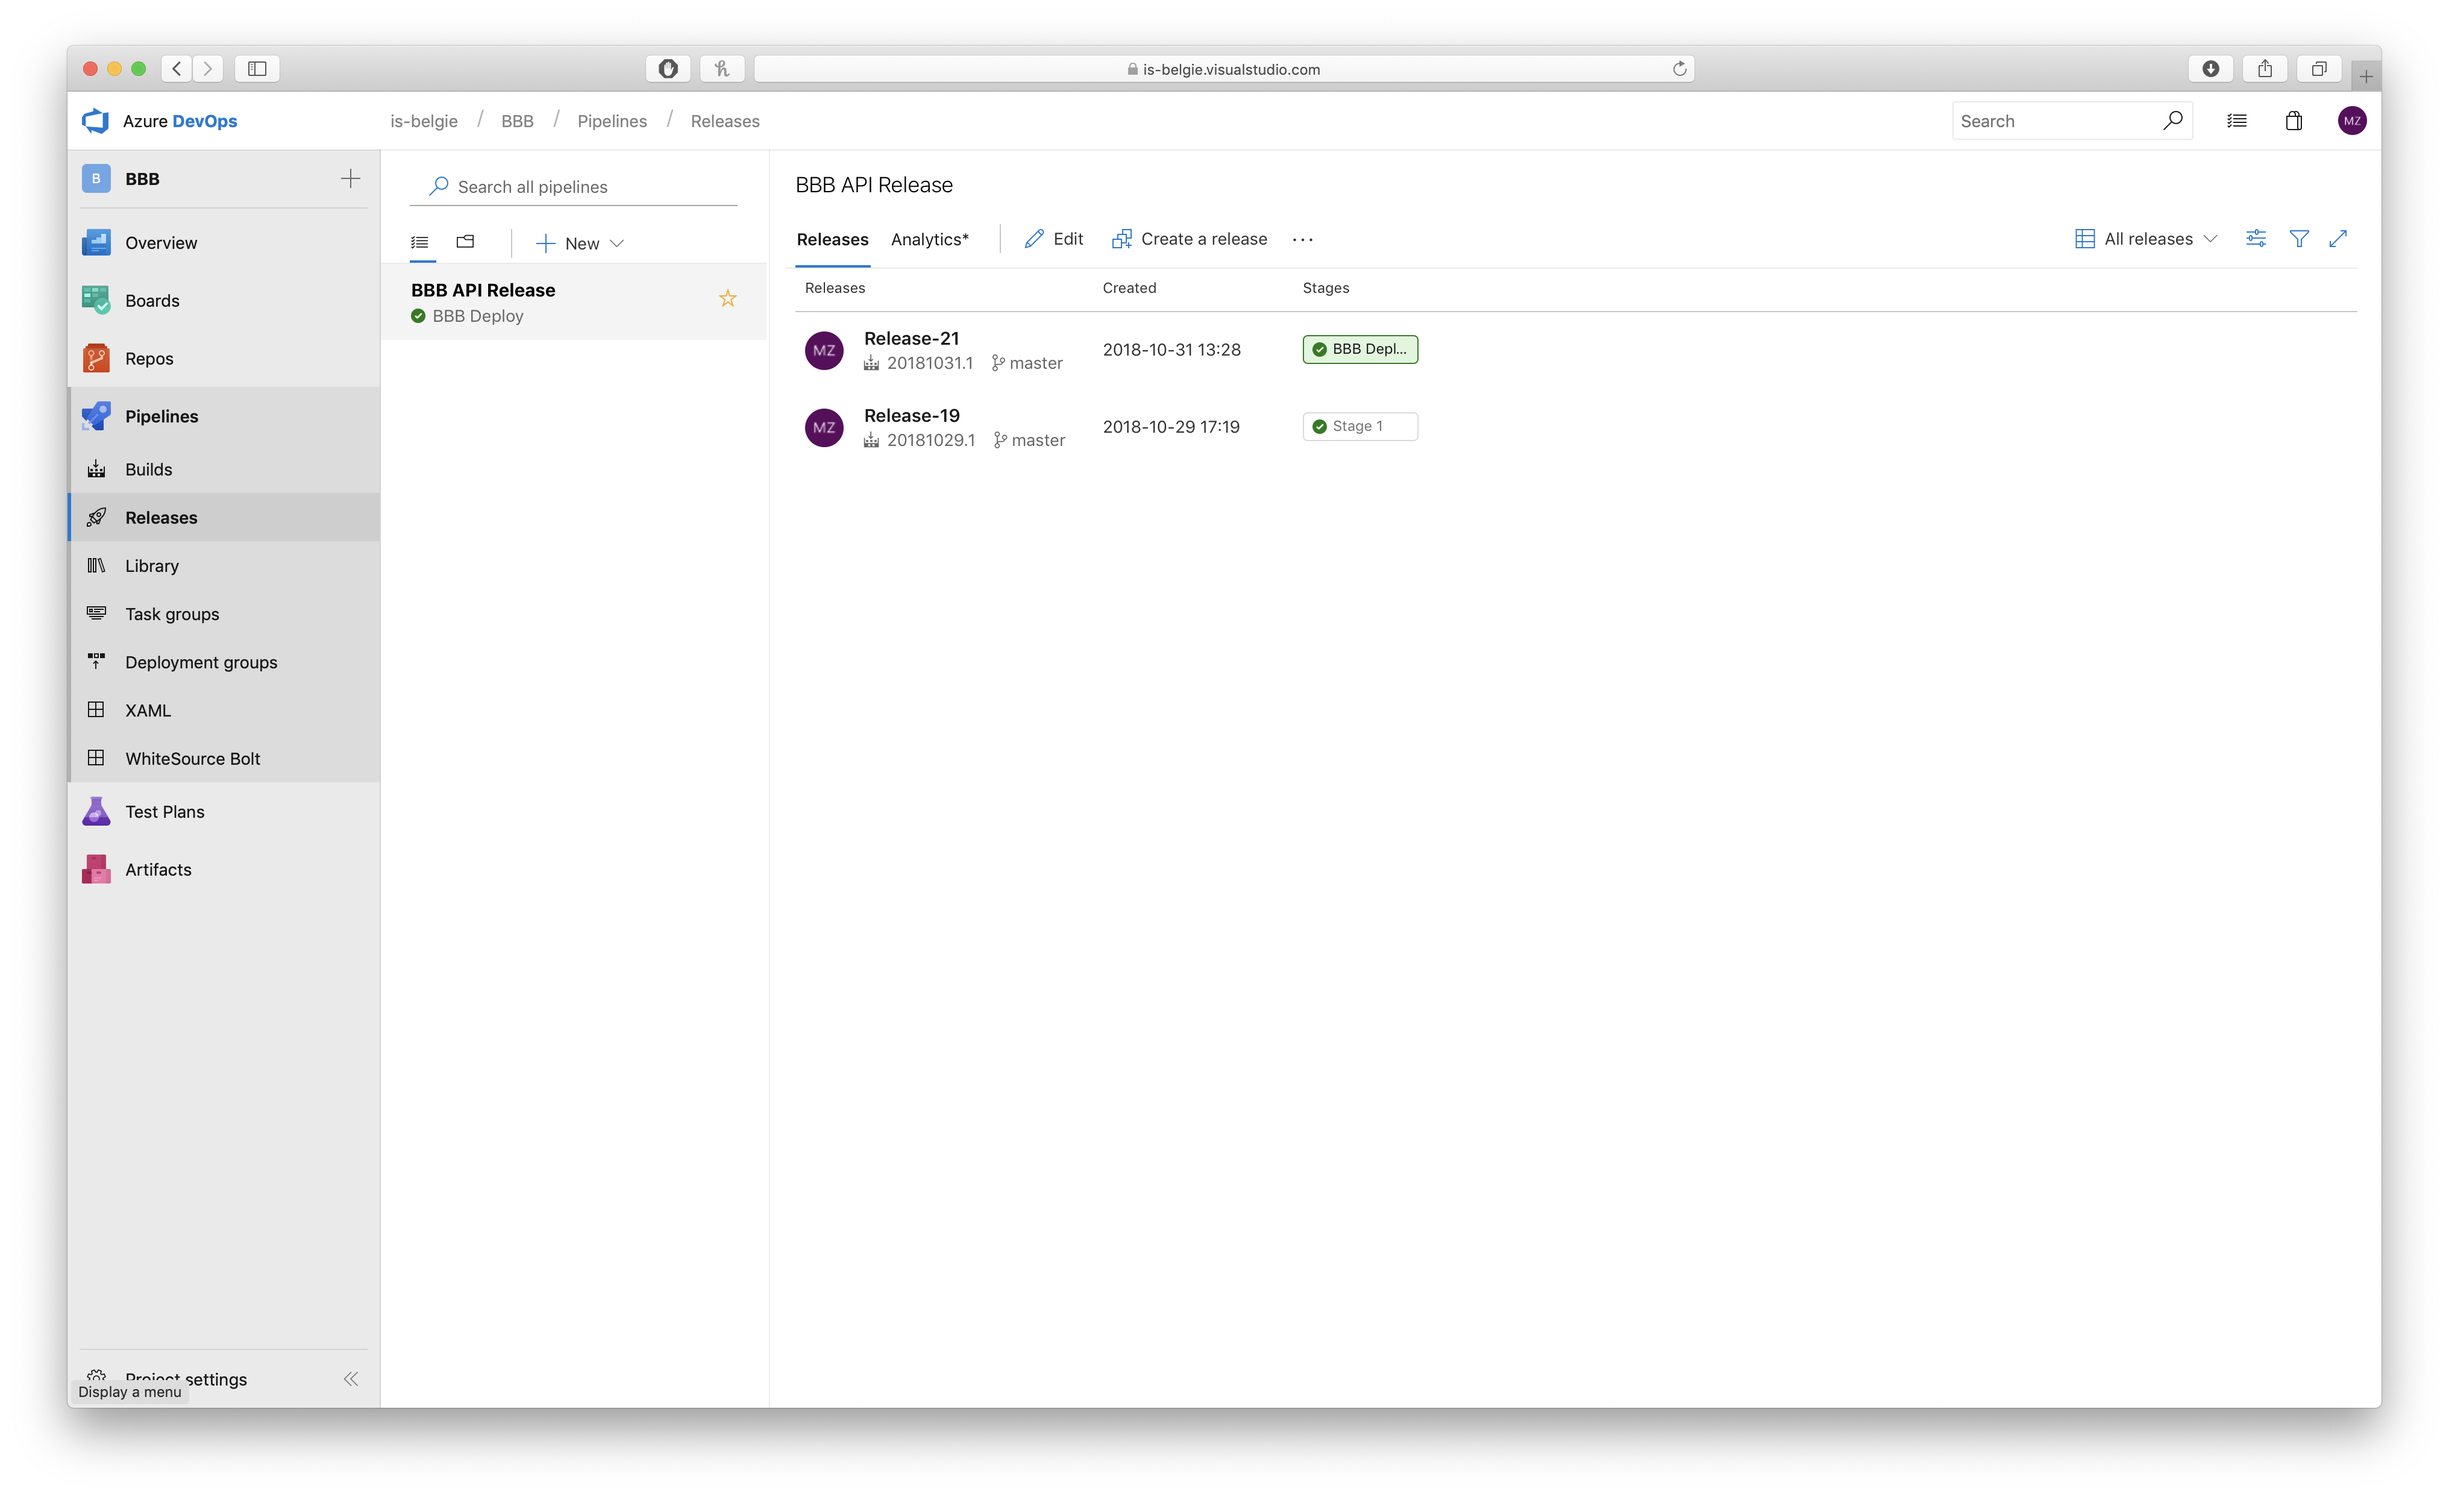
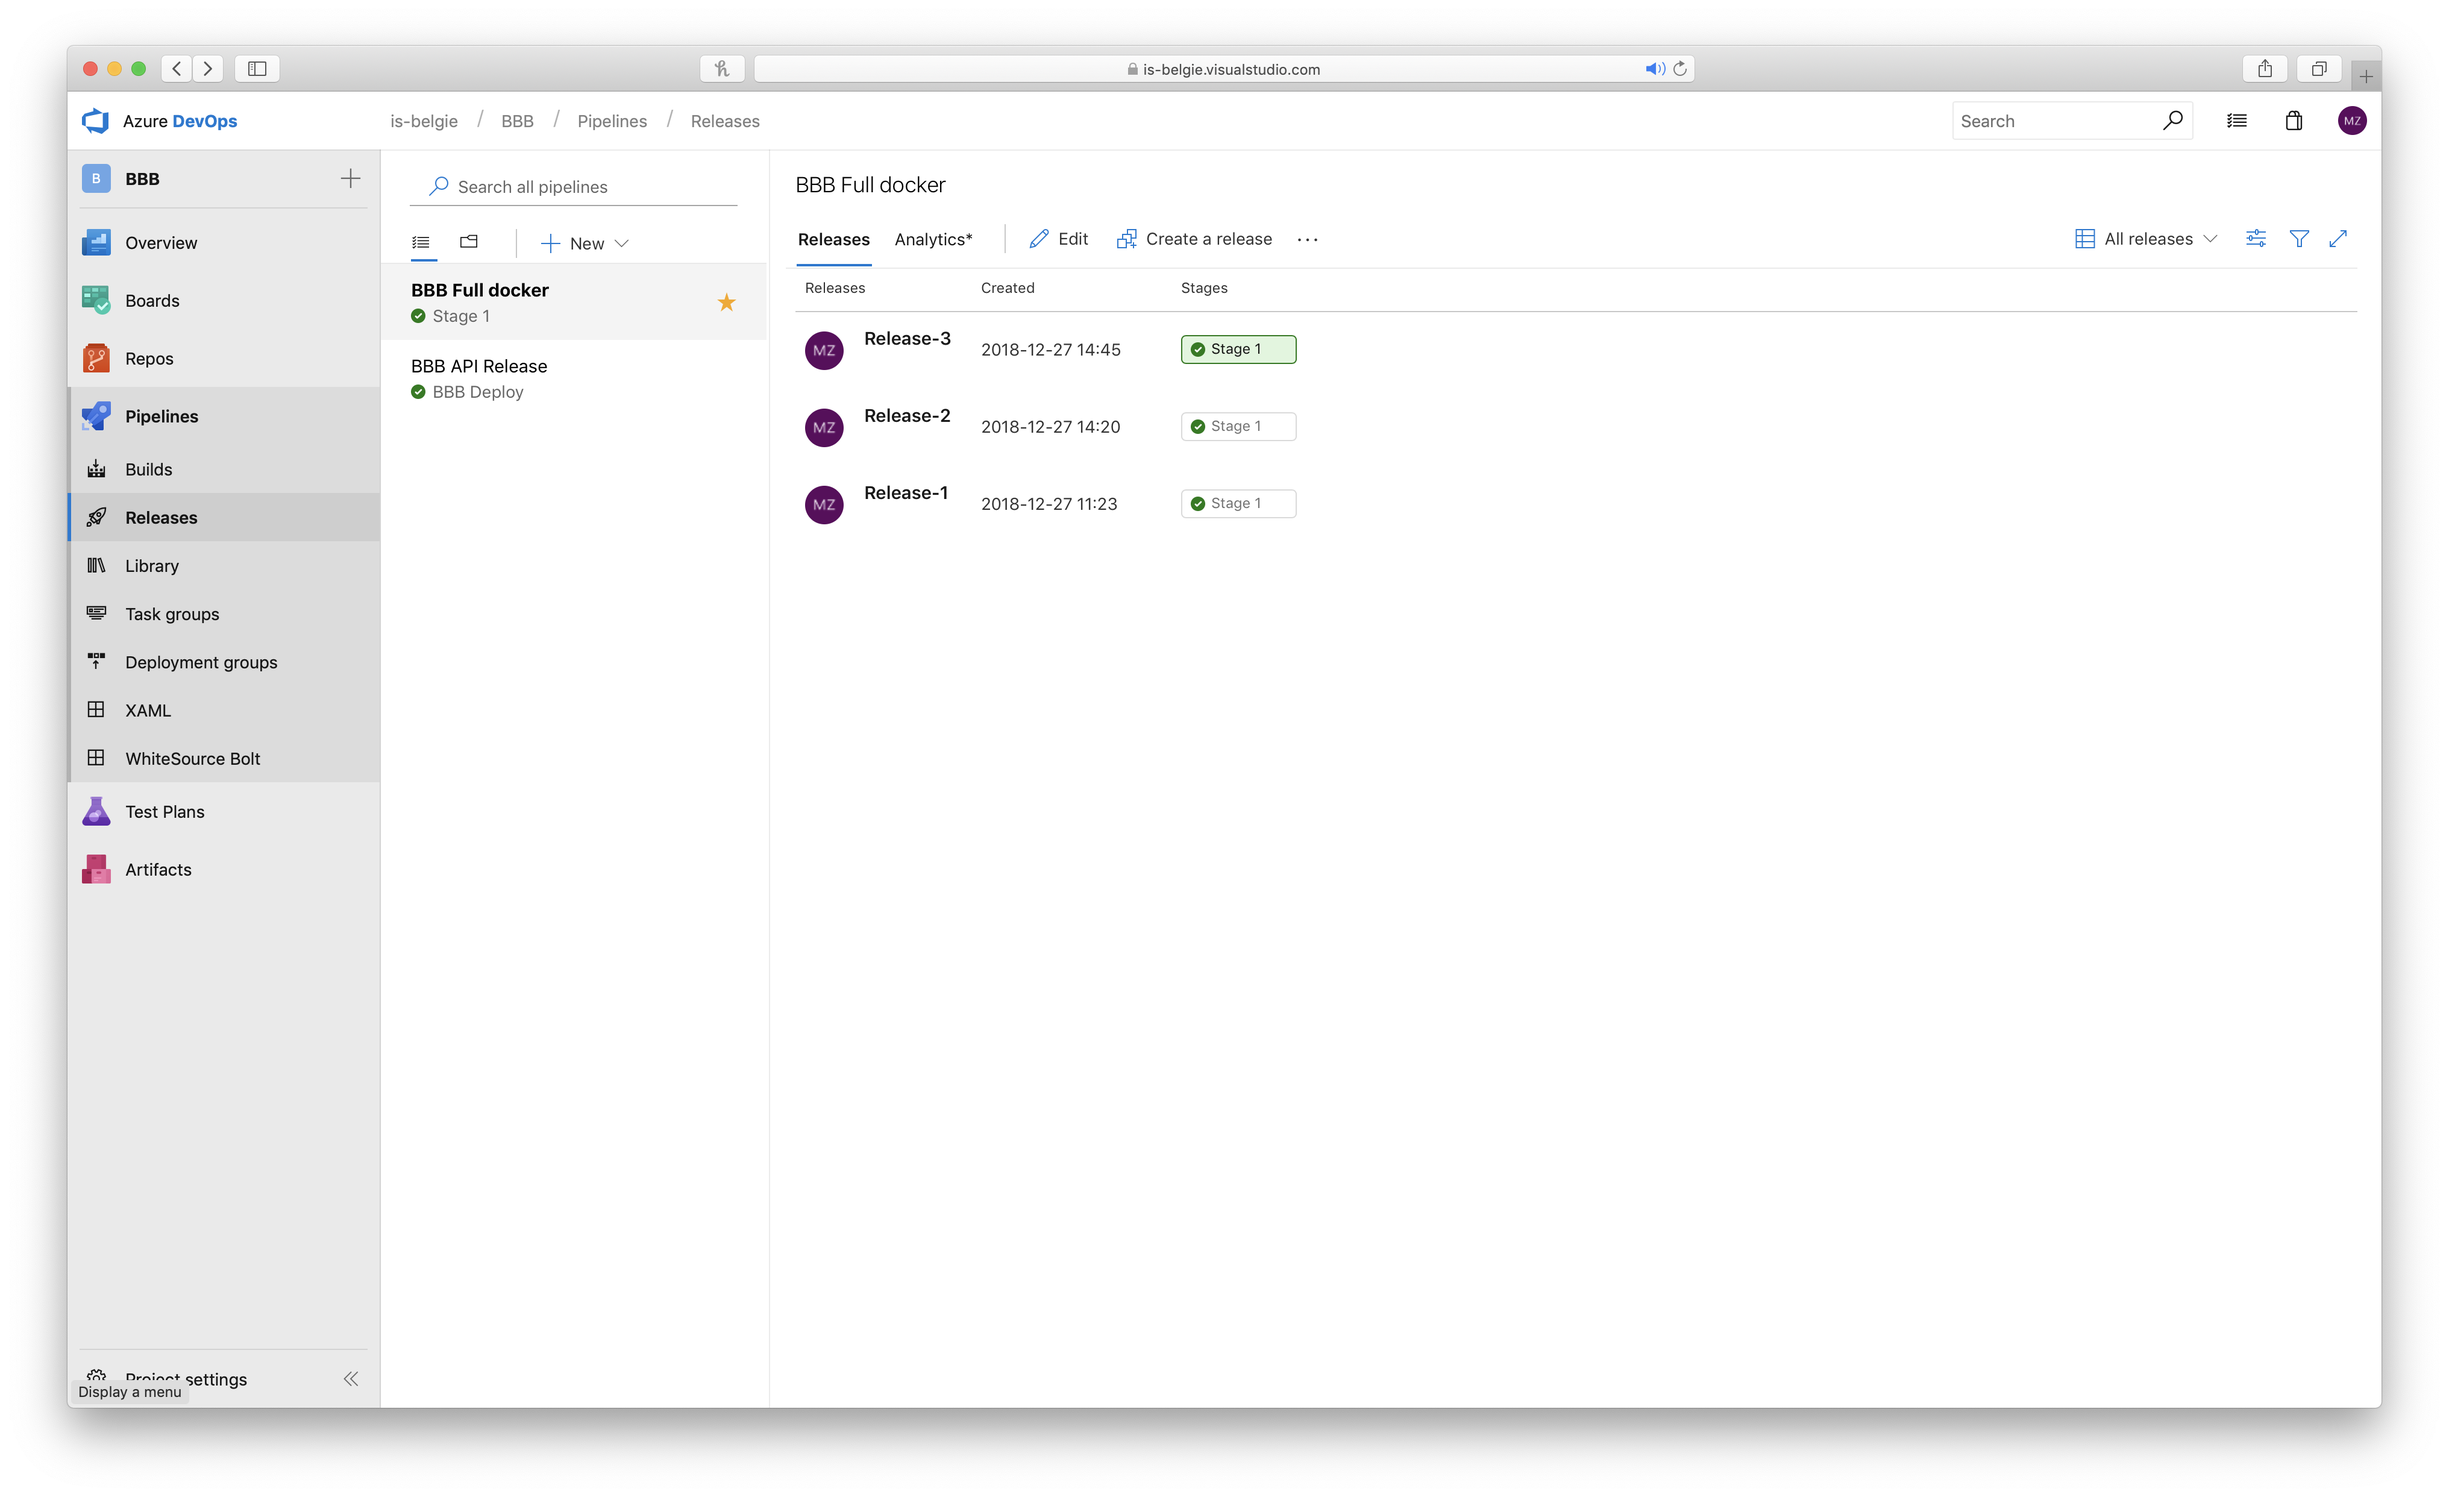
Herschrijven van pipelines + nieuwe plaatjes

diff --git a/beheer/README.md b/beheer/README.md
@@ -44,31 +44,48 @@ Er is een `README.md` in de repository waar benodigde informatie in staat van de
 
 ### Pipelines
 
-Een pipeline is een groep taken die uitgevoerd moet worden om een doel te behalen. De 2 doelen die ik heb binnen mijn project zijn het bouwen van de applicatie en het releasen (deployen) van de applicatie in de Azure Cloud. Hier zijn dus 2 pipelines voor opgezet.
+Een pipeline is een groep taken die uitgevoerd moet worden om een doel te behalen. De 2 doelen die ik heb binnen mijn project zijn het bouwen van de applicatie en het releasen (deployen) van de applicatie in de Azure Cloud. Voor het builden zijn 3 pipelines opgezet en voor het releasen 1.
 
-#### Build
+#### Build - API
 
-![Build pipeline IMG](./img/pipeline/build.png)
+![Build pipeline IMG](./img/pipeline/build-api.png)
 
-De build pipeline doet een 4-tal taken. Deze pipeline wordt uitgevoerd na elke commit op de `master`. De artifacts van de build worden dan opgeslagen en gebruikt in de release pipeline.
+De build pipeline doet een 4-tal taken. Deze pipeline wordt uitgevoerd na elke commit op de `master`.
 
 1. Source code ophalen (een git checkout)
-2. Gradle wrapper starten met de taak `bootWar`, deze bouwt een `war` archief die gebruikt wordt in Azure.
-3. De files kopieren die `/build/libs/*.*` en `src/main/resources/*.sql` matchen, dit is de `ROOT.war` en de `schema.sql`. Deze worden als artifact gezien.
-4. De artifacts zippen en publishen, zo heb je aan het einde van de build een `drop.zip` die gebruikt kan worden in de releae pipeline.
+2. Gradle wrapper starten met de taak `build`. Deze gaat per project een build actie doen. Om een build actie te mogen doen zal er eerst een test gedraaid worden, dit zijn unit tests. Deze worden dus automatisch gedraaid.
+3. De files kopieren die `**/*.war` en `**/*.sql` matchen, dit `core.war`, `facebook.war`, `slack.war`, `web.war` en de `schema.sql`. Deze worden als artifact gezien.
+4. De artifacts zippen en publishen, zo heb je aan het einde van de build een `drop.zip`. Deze kan gebruikt worden in andere pipelines. Deze wordt gebruikt in de `BBB Full stack` pipeline.
+
+#### Build - WEB
+
+De build van een react project is anders dan van een gradle project. Dit project maakt gebruik van de node package manager. In het bestand `package.json` staan alle packages die gebruikt worden. Deze pipeline bestaat uit 5 taken. Als er een commit is gemaakt op de `master` branch zal deze pipeline automatisch draaien.
+
+1. Source code ophalen (een git checkout)
+2. Een `npm install` doen. Dit installeerd alle packages gespecifieerd in de `package.json`.
+3. Een `npm build` voor het daadwerkelijk bouwen van het project. De output komt in de `build` folder.
+4. De files kopieren die in de `build` map staan.
+5. Het publishen van de artifact. Hier wordt ook een `drop.zip` van gemaakt. Deze kan ook gebruikt worden in andere pipelines. Ook deze wordt gebruikt in de `BBB Full stack` pipeline.
+
+#### Build - Full Stack
+
+![Full stack trigger](./img/pipeline/trigger-fullstack.png)
+Deze pipeline is voor de volledige applicatie. Omdat de volledige applicatie bestaat uit 2 aparte projecten is dit nodig. Deze pipeline heeft 6 stappen om uit te voeren. Het einddoel van deze pipeline is een docker image die gedraait kan worden in de Azure Cloud. Deze zal dan de combinatie van de 5 projecten hebben. In tegenstelling tot de andere pipelines die automatisch draaien als er een commit is gedaan op een master branch heb je hier de trigger van andere pipelines. Omdat deze pipeline afhankelijk is van de api en de web pipelines wordt deze automatisch gedraaid als er 1 van de 2 klaar is.
+
+1. Download de artifact van de api pipeline
+2. Download de artifact van de web pipeline
+3. De artifact van de api pipeline uitpakken
+4. De artifact van de web pipeline uitpakken
+5. De docker image bouwen genaamd `bbb`. Deze heeft de tag `latest` maar ook de git tags. Dit is zodat ik altijd een optie heb om een specifieke versie terug te zetten.
+6. De image pushen naar de repository. In azure kan je een eigen repository aanmaken. De repository die gebruikt wordt heet `bbbimages`.
 
 #### Release
 
 ![Release pipeline IMG](./img/pipeline/release.png)
 
-Releasen is de artifact(s) online zetten, in mijn geval op productie. De productie server is een Azure Web Service. Je geeft aan welke artifacts er gebruikt worden en van welke build. Dan heb ik 1 stage, de deploy stage. Deze bestaat uit meerdere taken; de taken zijn:
+Releasen is het online zetten van een versie, in mijn geval de laatste versie. De omgeving die ik heb is een productie omgeving, hier wordt de laatste nieuwe docker image gedraaid. Deze docker image draait in een _Azure Web Service_. Omdat Azure DevOps zo goed samen werkt met de Azure Cloud omgeving was het configureren heel makkelijk. Er is maar 1 stap, de _Azure App Service Deploy_. Deze is geconfigureerd om de `bbbimages` container registery te gebruiken voor het ophalen van de `bbb` image. Deze wordt dan gepusht naar de Web Service en online gezet.
 
-1. Stop de App Service
-2. Gebruik het `schema.sql` script om de database in te richten
-3. Deploy de war naar de (gestopte) App Service
-4. Start de App Service
-
-Als deze stappen doorgaan zijn is de release succesvol afgerond en staat er een nieuwe versie online. De huidige versie kan je dan checken op het [info endpoint](http://bbb-apiv2.azurewebsites.net/core/actuator/info)
+Als dit gelukt is, is de release succesvol afgerond en staat er een nieuwe versie online. De huidige versie kan je dan checken op het [info endpoint](http://bbb-apiv2.azurewebsites.net/core/actuator/info)
 
 ## Swagger
 
@@ -85,11 +102,11 @@ Het info endpoint bevat informatie over de build. Hieronder zie je een voorbeeld
 ```json
 {
   "build": {
-    "version": "1.0.0.02106f9",
-    "artifact": "bbb-api",
-    "name": "bbb-api",
+    "version": "1.0.0.43d438a",
+    "artifact": "core",
+    "name": "core",
     "group": "com.infosupport",
-    "time": "2018-10-31T12:06:21.104Z"
+    "time": "2018-12-27T09:34:56.476Z"
   }
 }
 ```
